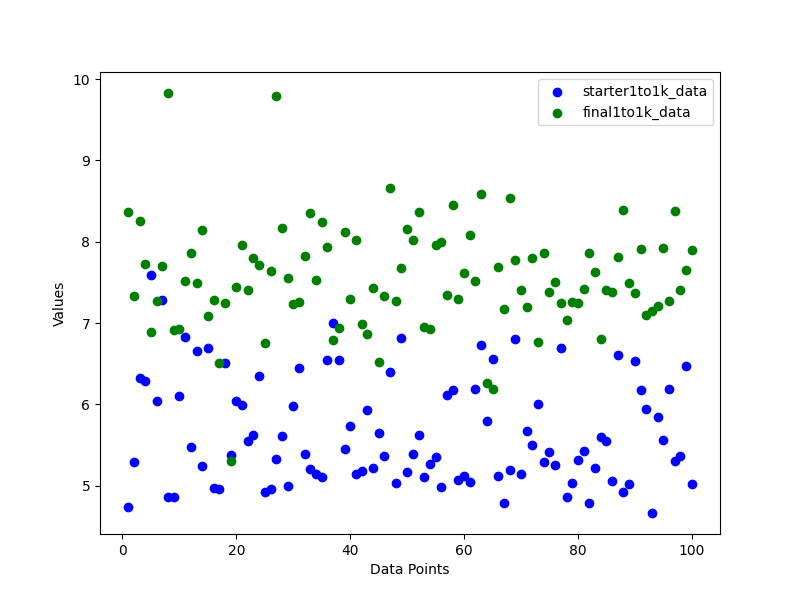
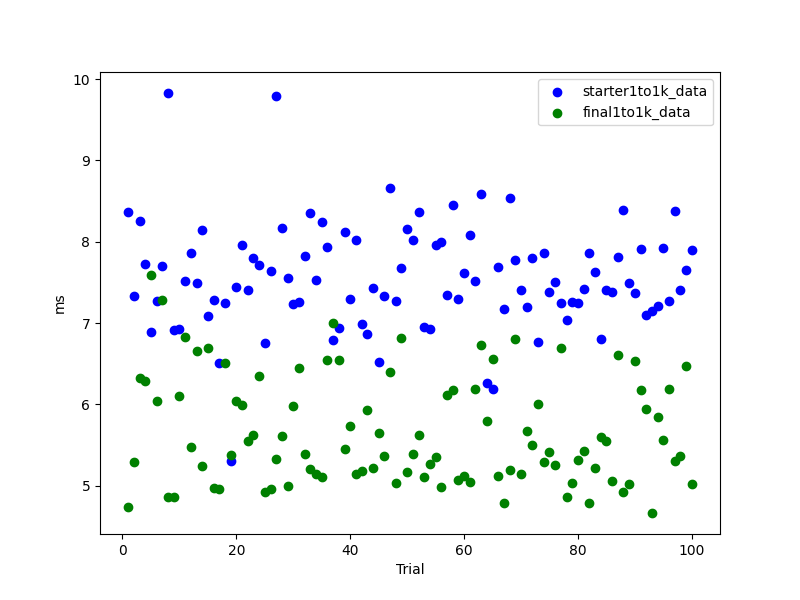
correct graphs

diff --git a/sockets/graphs.py b/sockets/graphs.py
@@ -26,8 +26,8 @@ plt.scatter(data_points, starter1to1k_data, label='starter1to1k_data', color='bl
 plt.scatter(data_points, final1to1k_data, label='final1to1k_data', color='green')
 
 # Adding labels and legend for the first figure
-plt.xlabel('Data Points')
-plt.ylabel('Values')
+plt.xlabel('Trial')
+plt.ylabel('ms')
 plt.legend()
 
 # Show the first plot
@@ -44,8 +44,8 @@ plt.scatter(data_points_2, starter1kto1k_data, label='starter1kto1k_data', color
 plt.scatter(data_points_2, final1kto1k_data, label='final1kto1k_data', color='green')  # Use the same color as in the first plot
 
 # Adding labels and legend for the second figure
-plt.xlabel('Data Points')
-plt.ylabel('Values')
+plt.xlabel('Trial')
+plt.ylabel('ms')
 plt.legend()
 
 # Show the second plot
@@ -53,7 +53,7 @@ plt.savefig('scatter_plot1kto1k.png')
 
 fig3 = plt.figure(figsize=(8, 6))
 plt.plot(data_points_2, final1kto1k_data, label='final1kto1k_data', color='red')  # Use a different color for the line graph
-plt.xlabel('Data Points')
-plt.ylabel('Values')
+plt.xlabel('Trial')
+plt.ylabel('ms')
 plt.legend()
 plt.savefig('line_plot1kto1k.png')

diff --git a/README.md b/README.md
@@ -1,6 +1,7 @@
 # Synoptic Infrastructure Bounty
 
 This repository contains the infrastructure for the Synoptic Bounty. The infrastructure is divided into three main components: server, publisher, and client. The server listens for messages from the publisher and sends them to the client. The publisher generates random messages and sends them to the server, while the client listens for messages from the server.
+![Alt text](sockets/scatter_plot1kto1k.png)
 
 Two example implementations are provided: one using gRPC and another using sockets. The gRPC implementation is located in the `grpc` directory, while the socket implementation is located in the `sockets` directory.
 
